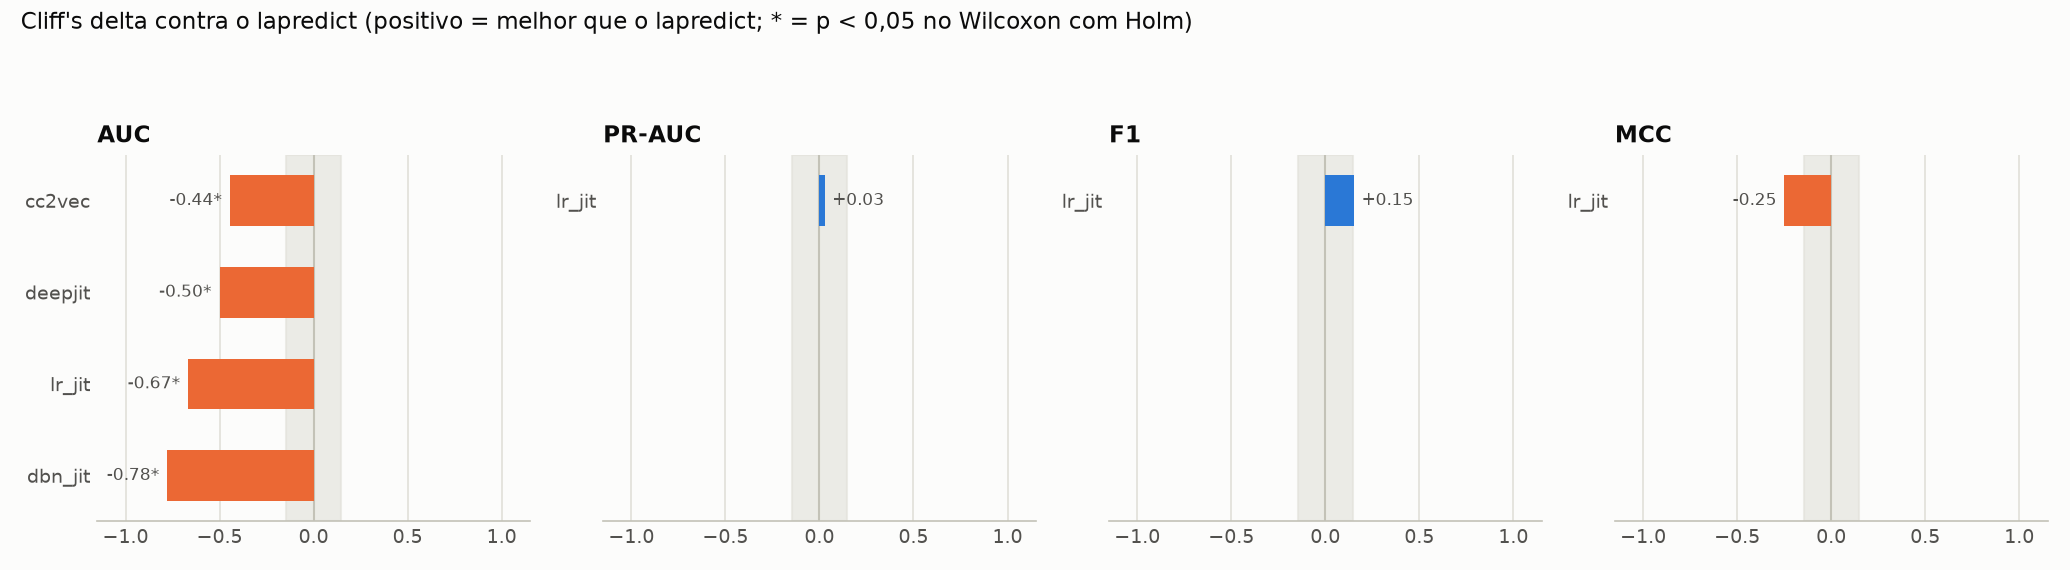
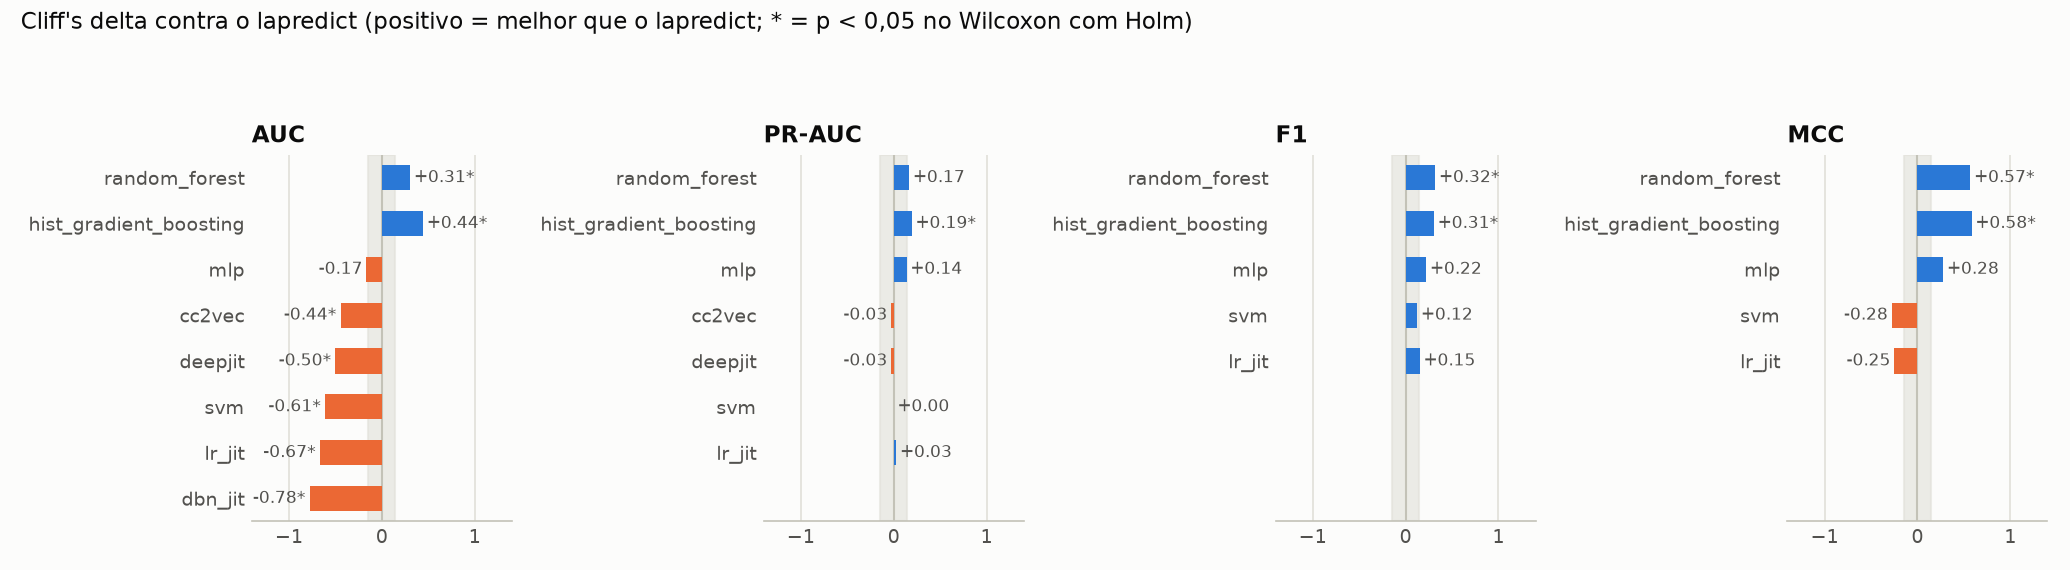
feat(results): comparação final com todos os modelos

diff --git a/results/comparacao.md b/results/comparacao.md
@@ -7,27 +7,53 @@ Gerado por `python -m src.evaluation.compare`. Não edite à mão.
 | Modelo | AUC WP | AUC CP | PR-AUC WP | PR-AUC CP | F1 WP | F1 CP | MCC WP | MCC CP |
 |---|---|---|---|---|---|---|---|---|
 | lapredict | 0.725 | 0.725 | 0.436 | 0.436 | 0.412 | 0.403 | 0.242 | 0.232 |
-| cc2vec | 0.706 | 0.675 | — | — | — | — | — | — |
-| deepjit | 0.706 | 0.670 | — | — | — | — | — | — |
+| random_forest | 0.758 | 0.737 | 0.488 | 0.460 | 0.504 | 0.471 | 0.308 | 0.283 |
+| hist_gradient_boosting | 0.754 | 0.738 | 0.486 | 0.466 | 0.506 | 0.468 | 0.305 | 0.279 |
+| mlp | 0.738 | 0.709 | 0.476 | 0.449 | 0.488 | 0.446 | 0.276 | 0.257 |
+| cc2vec | 0.706 | 0.675 | 0.431 | 0.414 | — | — | — | — |
+| deepjit | 0.706 | 0.670 | 0.433 | 0.413 | — | — | — | — |
+| svm | 0.693 | 0.669 | 0.435 | 0.406 | 0.460 | 0.437 | 0.218 | 0.201 |
 | lr_jit | 0.689 | 0.667 | 0.433 | 0.406 | 0.466 | 0.432 | 0.227 | 0.201 |
 | dbn_jit | 0.671 | 0.663 | — | — | — | — | — | — |
 
-cc2vec, dbn_jit, deepjit: só a AUC publicada no artigo (Tabela 8); as outras métricas dependem da #6.
+cc2vec, deepjit: AUC e PR-AUC calculados a partir das predições publicadas pelos autores. F1 e MCC ficam de fora porque não há dados de validação para escolher o limiar.
+
+dbn_jit: só a AUC publicada no artigo (Tabela 8).
 
 ## Algum modelo supera o lapredict?
 
-**Não.** Nenhum modelo foi significativamente melhor que o lapredict em nenhuma métrica (Wilcoxon pareado com Holm, alfa = 0.05, e Cliff's delta não negligível).
+**Sim:** random_forest em AUC, hist_gradient_boosting em AUC, hist_gradient_boosting em PR-AUC, random_forest em F1, hist_gradient_boosting em F1, random_forest em MCC, hist_gradient_boosting em MCC.
 
 | Modelo | Métrica | Pares | Vitórias/derrotas | Mediana da diferença | p (Holm) | Cliff's delta | Resultado |
 |---|---|---|---|---|---|---|---|
-| cc2vec | AUC | 12 | 3/9 | -0.0352 | 0.0322 | -0.444 (médio) | perde |
-| deepjit | AUC | 12 | 3/9 | -0.0380 | 0.0322 | -0.500 (grande) | perde |
-| lr_jit | AUC | 12 | 1/11 | -0.0369 | 0.0073 | -0.667 (grande) | perde |
-| dbn_jit | AUC | 12 | 0/12 | -0.0571 | 0.0020 | -0.778 (grande) | perde |
-| lr_jit | PR-AUC | 12 | 5/7 | -0.0122 | 0.3804 | +0.028 (negligível) | empate |
-| lr_jit | F1 | 12 | 6/6 | -0.0017 | 0.9097 | +0.153 (pequeno) | empate |
-| lr_jit | MCC | 12 | 3/9 | -0.0296 | 0.2334 | -0.250 (pequeno) | empate |
+| random_forest | AUC | 12 | 9/3 | +0.0233 | 0.0371 | +0.306 (pequeno) | supera |
+| hist_gradient_boosting | AUC | 12 | 10/2 | +0.0157 | 0.0171 | +0.444 (médio) | supera |
+| mlp | AUC | 12 | 5/7 | -0.0046 | 0.7334 | -0.167 (pequeno) | empate |
+| cc2vec | AUC | 12 | 3/9 | -0.0352 | 0.0483 | -0.444 (médio) | perde |
+| deepjit | AUC | 12 | 3/9 | -0.0380 | 0.0483 | -0.500 (grande) | perde |
+| svm | AUC | 12 | 2/10 | -0.0342 | 0.0171 | -0.611 (grande) | perde |
+| lr_jit | AUC | 12 | 1/11 | -0.0369 | 0.0171 | -0.667 (grande) | perde |
+| dbn_jit | AUC | 12 | 0/12 | -0.0571 | 0.0039 | -0.778 (grande) | perde |
+| random_forest | PR-AUC | 12 | 9/3 | +0.0450 | 0.0967 | +0.167 (pequeno) | empate |
+| hist_gradient_boosting | PR-AUC | 12 | 10/2 | +0.0399 | 0.0171 | +0.194 (pequeno) | supera |
+| mlp | PR-AUC | 12 | 8/4 | +0.0290 | 0.1343 | +0.139 (negligível) | empate |
+| cc2vec | PR-AUC | 12 | 4/8 | -0.0220 | 1.0000 | -0.028 (negligível) | empate |
+| deepjit | PR-AUC | 12 | 4/8 | -0.0139 | 1.0000 | -0.028 (negligível) | empate |
+| svm | PR-AUC | 12 | 4/8 | -0.0082 | 1.0000 | +0.000 (negligível) | empate |
+| lr_jit | PR-AUC | 12 | 5/7 | -0.0122 | 1.0000 | +0.028 (negligível) | empate |
+| random_forest | F1 | 12 | 11/1 | +0.0295 | 0.0098 | +0.319 (pequeno) | supera |
+| hist_gradient_boosting | F1 | 12 | 11/1 | +0.0290 | 0.0073 | +0.306 (pequeno) | supera |
+| mlp | F1 | 12 | 8/4 | +0.0152 | 0.4541 | +0.222 (pequeno) | empate |
+| svm | F1 | 12 | 6/6 | +0.0024 | 1.0000 | +0.125 (negligível) | empate |
+| lr_jit | F1 | 12 | 6/6 | -0.0017 | 1.0000 | +0.153 (pequeno) | empate |
+| random_forest | MCC | 12 | 11/1 | +0.0299 | 0.0039 | +0.569 (grande) | supera |
+| hist_gradient_boosting | MCC | 12 | 12/0 | +0.0333 | 0.0024 | +0.583 (grande) | supera |
+| mlp | MCC | 12 | 6/6 | +0.0130 | 0.5288 | +0.278 (pequeno) | empate |
+| svm | MCC | 12 | 3/9 | -0.0313 | 0.5288 | -0.278 (pequeno) | empate |
+| lr_jit | MCC | 12 | 3/9 | -0.0296 | 0.5288 | -0.250 (pequeno) | empate |
 
 Pares = projeto × cenário, com a média das seeds de cada modelo. O p-valor é do Wilcoxon pareado bicaudal, corrigido por Holm entre os modelos de cada métrica. Magnitude do Cliff's delta pelos limiares de Romano et al. (2006).
+
+**Limitação do CP:** o treino usa os outros cinco projetos inteiros, então parte dos commits de treino é mais recente que o período de teste. O artigo faz assim e mantivemos para comparar nas mesmas condições.
 
 Figuras em `results/figures/`.
